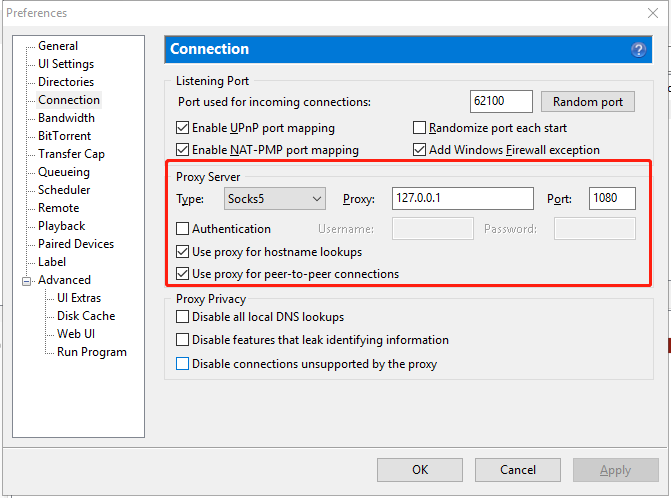
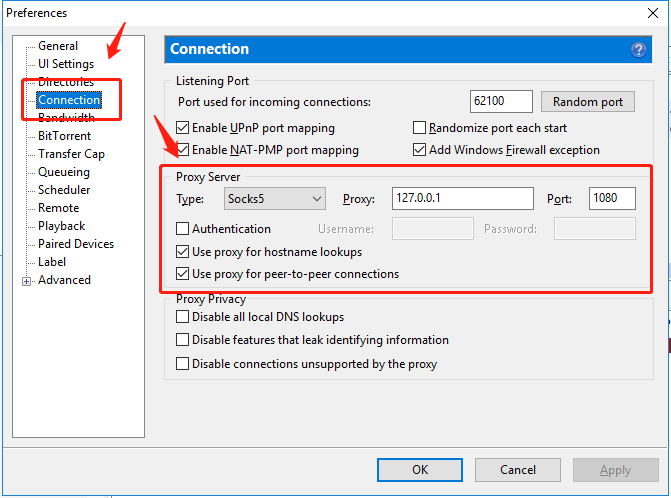
Site updated: 2018-05-12 21:40:09

diff --git a/p/b4d20b2d/index.html b/p/b4d20b2d/index.html
@@ -95,7 +95,7 @@
 <meta property="og:locale" content="zh-Hans">
 <meta property="og:image" content="http://yucc.me/p/b4d20b2d/2.png">
 <meta property="og:image" content="http://yucc.me/p/b4d20b2d/3.png">
-<meta property="og:updated_time" content="2018-05-12T00:15:41.386Z">
+<meta property="og:updated_time" content="2018-05-12T13:39:32.589Z">
 <meta name="twitter:card" content="summary">
 <meta name="twitter:title" content="使用vultr搭建vpn（shadowsocks）翻墙教程">
 <meta name="twitter:description" content="学习本教程，主要收获会有两个。一个是科学上网，一个能够去北邮人bt上传下载资源。详细的内容见下表，如果只为了科学上网，学习1-4即可。内容概要：  vultr购买VPS服务器 在服务器上搭建shadowsocks 在win10配置shadowsocks 在chrome中配置proxy SwitchyOmega插件 访问北邮人bt（ipv6） 配置utorrent去下载">
@@ -361,8 +361,8 @@
               
                 <span class="post-meta-item-text">更新于&#58;</span>
               
-              <time title="更新于" itemprop="dateModified" datetime="2018-05-12T08:15:41+08:00">
-                2018-05-12 08:15
+              <time title="更新于" itemprop="dateModified" datetime="2018-05-12T21:39:32+08:00">
+                2018-05-12 21:39
               </time>
             
           </span>
@@ -418,7 +418,7 @@
                   <span class="post-meta-item-text">字数统计&#58;</span>
                 
                 <span title="字数统计">
-                  1,522
+                  1,536
                 </span>
               
 
@@ -521,7 +521,7 @@
 <p>然后就是常规的登录，找到并下载种子。</p>
 <p>有了种子还需要在utorrent配置一下，请看下一节。</p>
 <h3 id="6-配置utorrent去下载"><a href="#6-配置utorrent去下载" class="headerlink" title="6. 配置utorrent去下载"></a>6. 配置utorrent去下载</h3><p>下载并打开utorrent。这一步就不说了。</p>
-<p>然后“ctrl+P”，打开utorrent的设置。设置如下图红圈里所示：</p>
+<p>然后“ctrl+P”，打开utorrent的设置。设置左侧找到Connection（中文应该是链接），设置如下图红圈里所示：</p>
 <p><img src="3.png" alt=""></p>
 <p>至此就能愉快的下载了。</p>
 <p>参考资料：</p>

diff --git a/index.html b/index.html
@@ -360,8 +360,8 @@
               
                 <span class="post-meta-item-text">更新于&#58;</span>
               
-              <time title="更新于" itemprop="dateModified" datetime="2018-05-12T08:15:41+08:00">
-                2018-05-12 08:15
+              <time title="更新于" itemprop="dateModified" datetime="2018-05-12T21:39:32+08:00">
+                2018-05-12 21:39
               </time>
             
           </span>
@@ -414,7 +414,7 @@
                   <span class="post-meta-item-text">字数统计&#58;</span>
                 
                 <span title="字数统计">
-                  1,522
+                  1,536
                 </span>
               
 

diff --git a/css/main.css b/css/main.css
@@ -1932,7 +1932,7 @@ pre .javascript .function {
   width: 4px;
   height: 4px;
   border-radius: 50%;
-  background: #a19dff;
+  background: #2bffad;
 }
 .links-of-blogroll {
   font-size: 13px;
